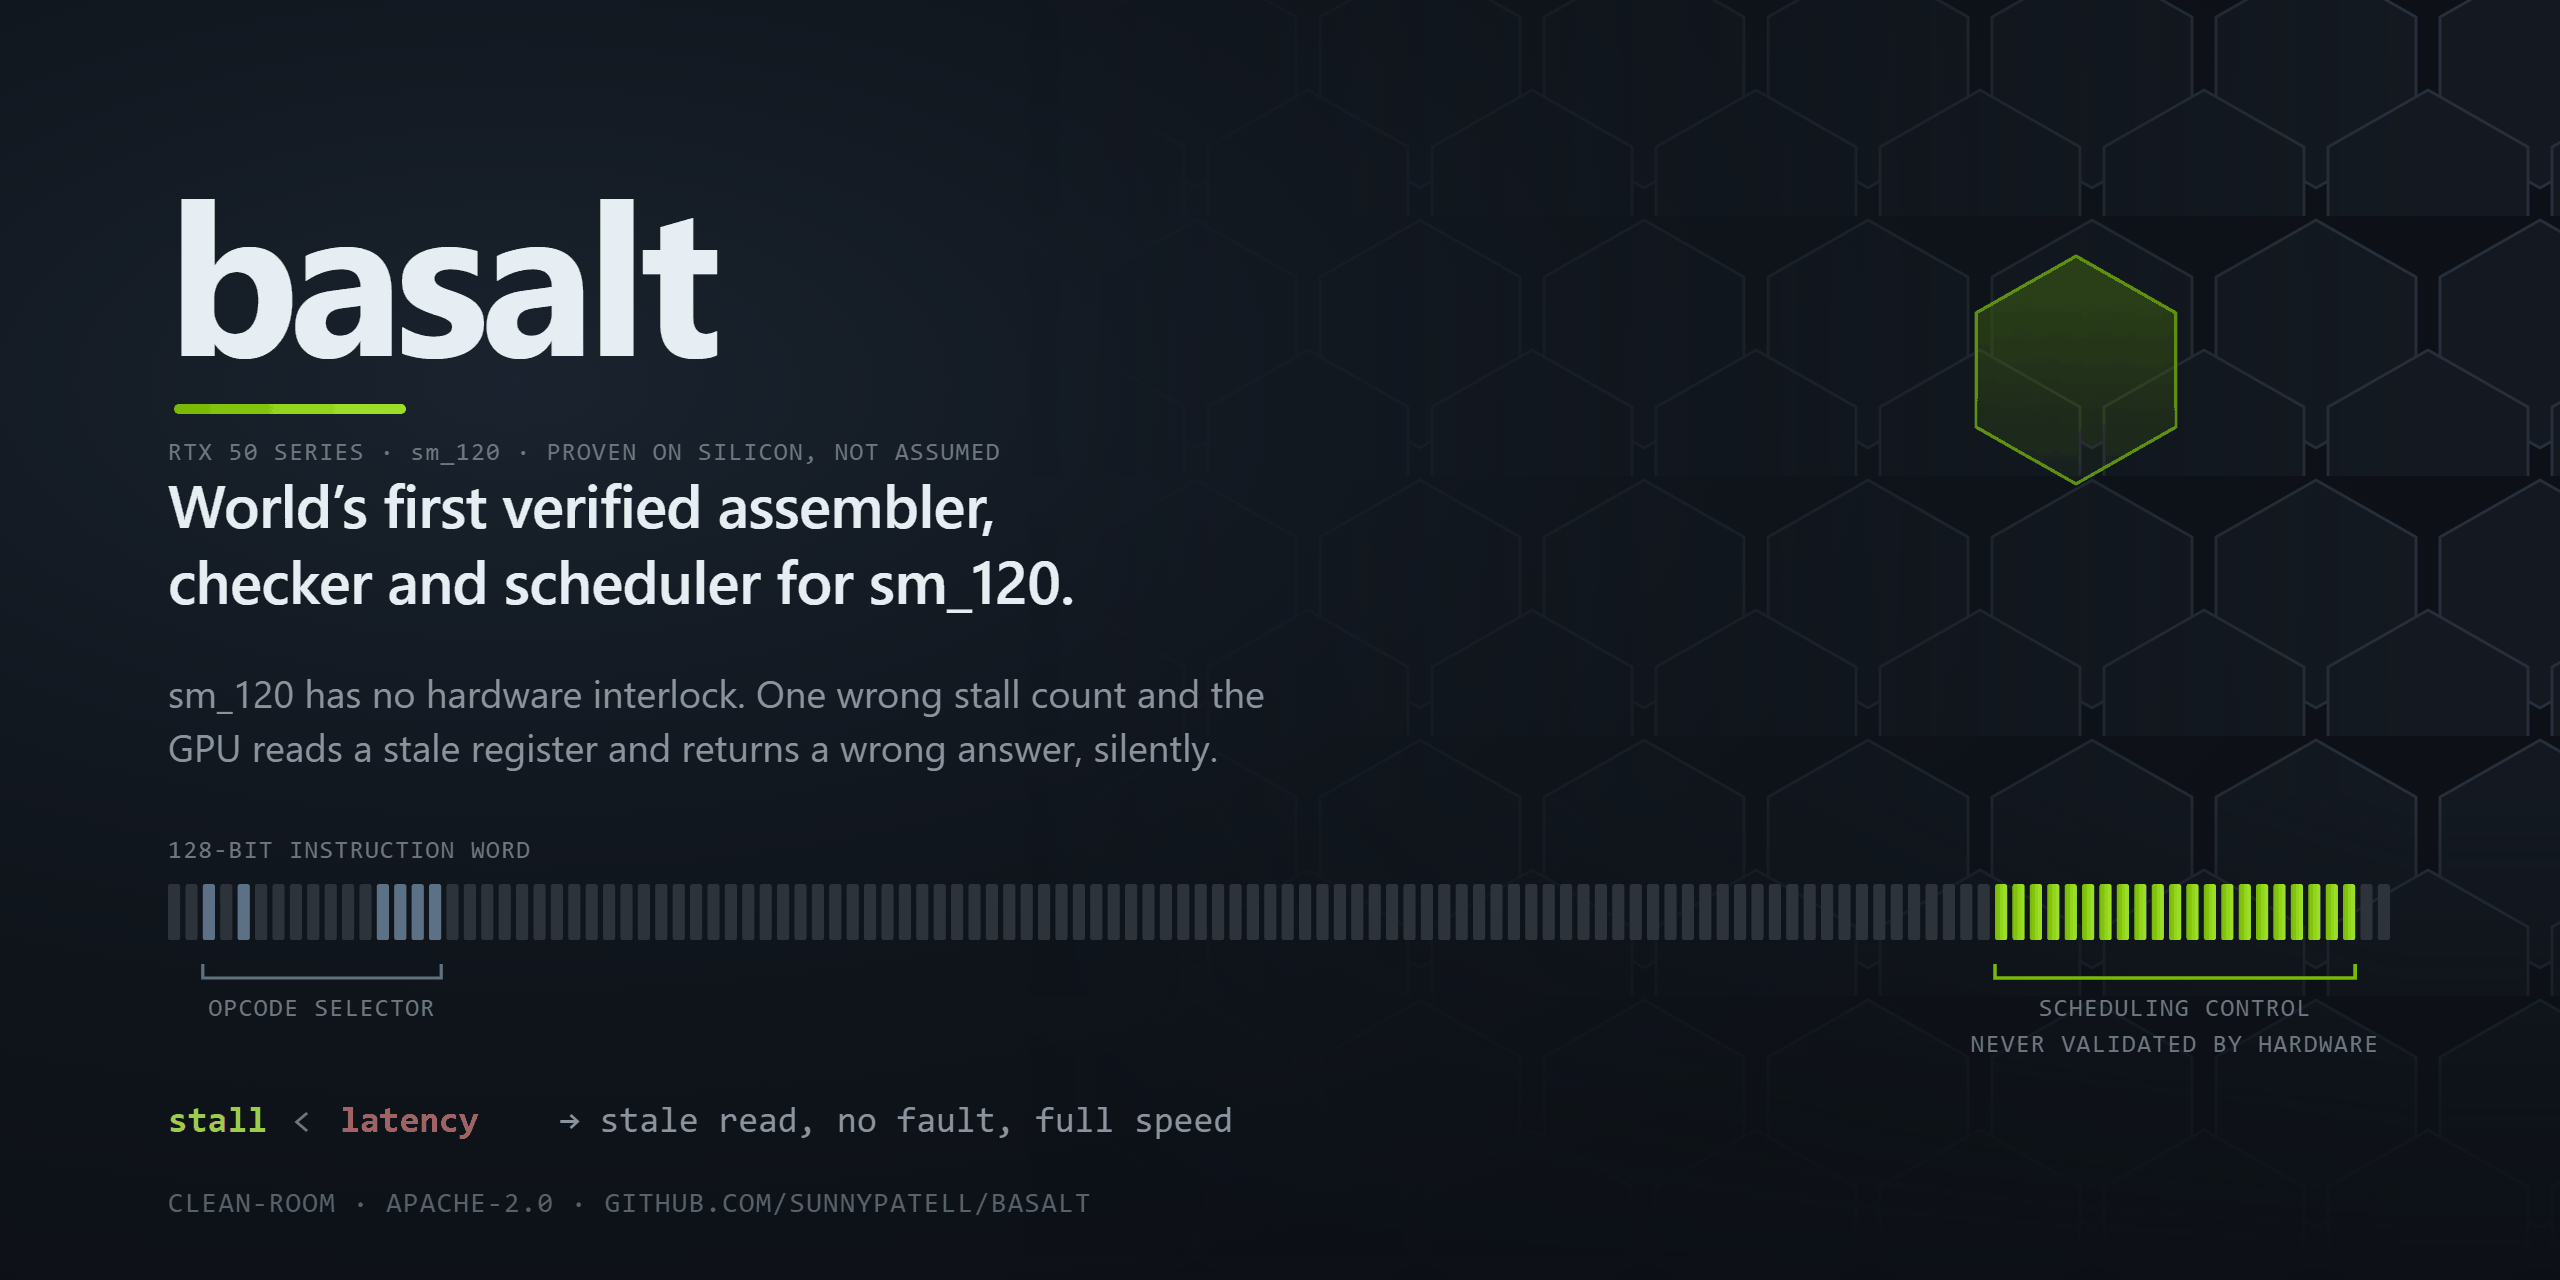
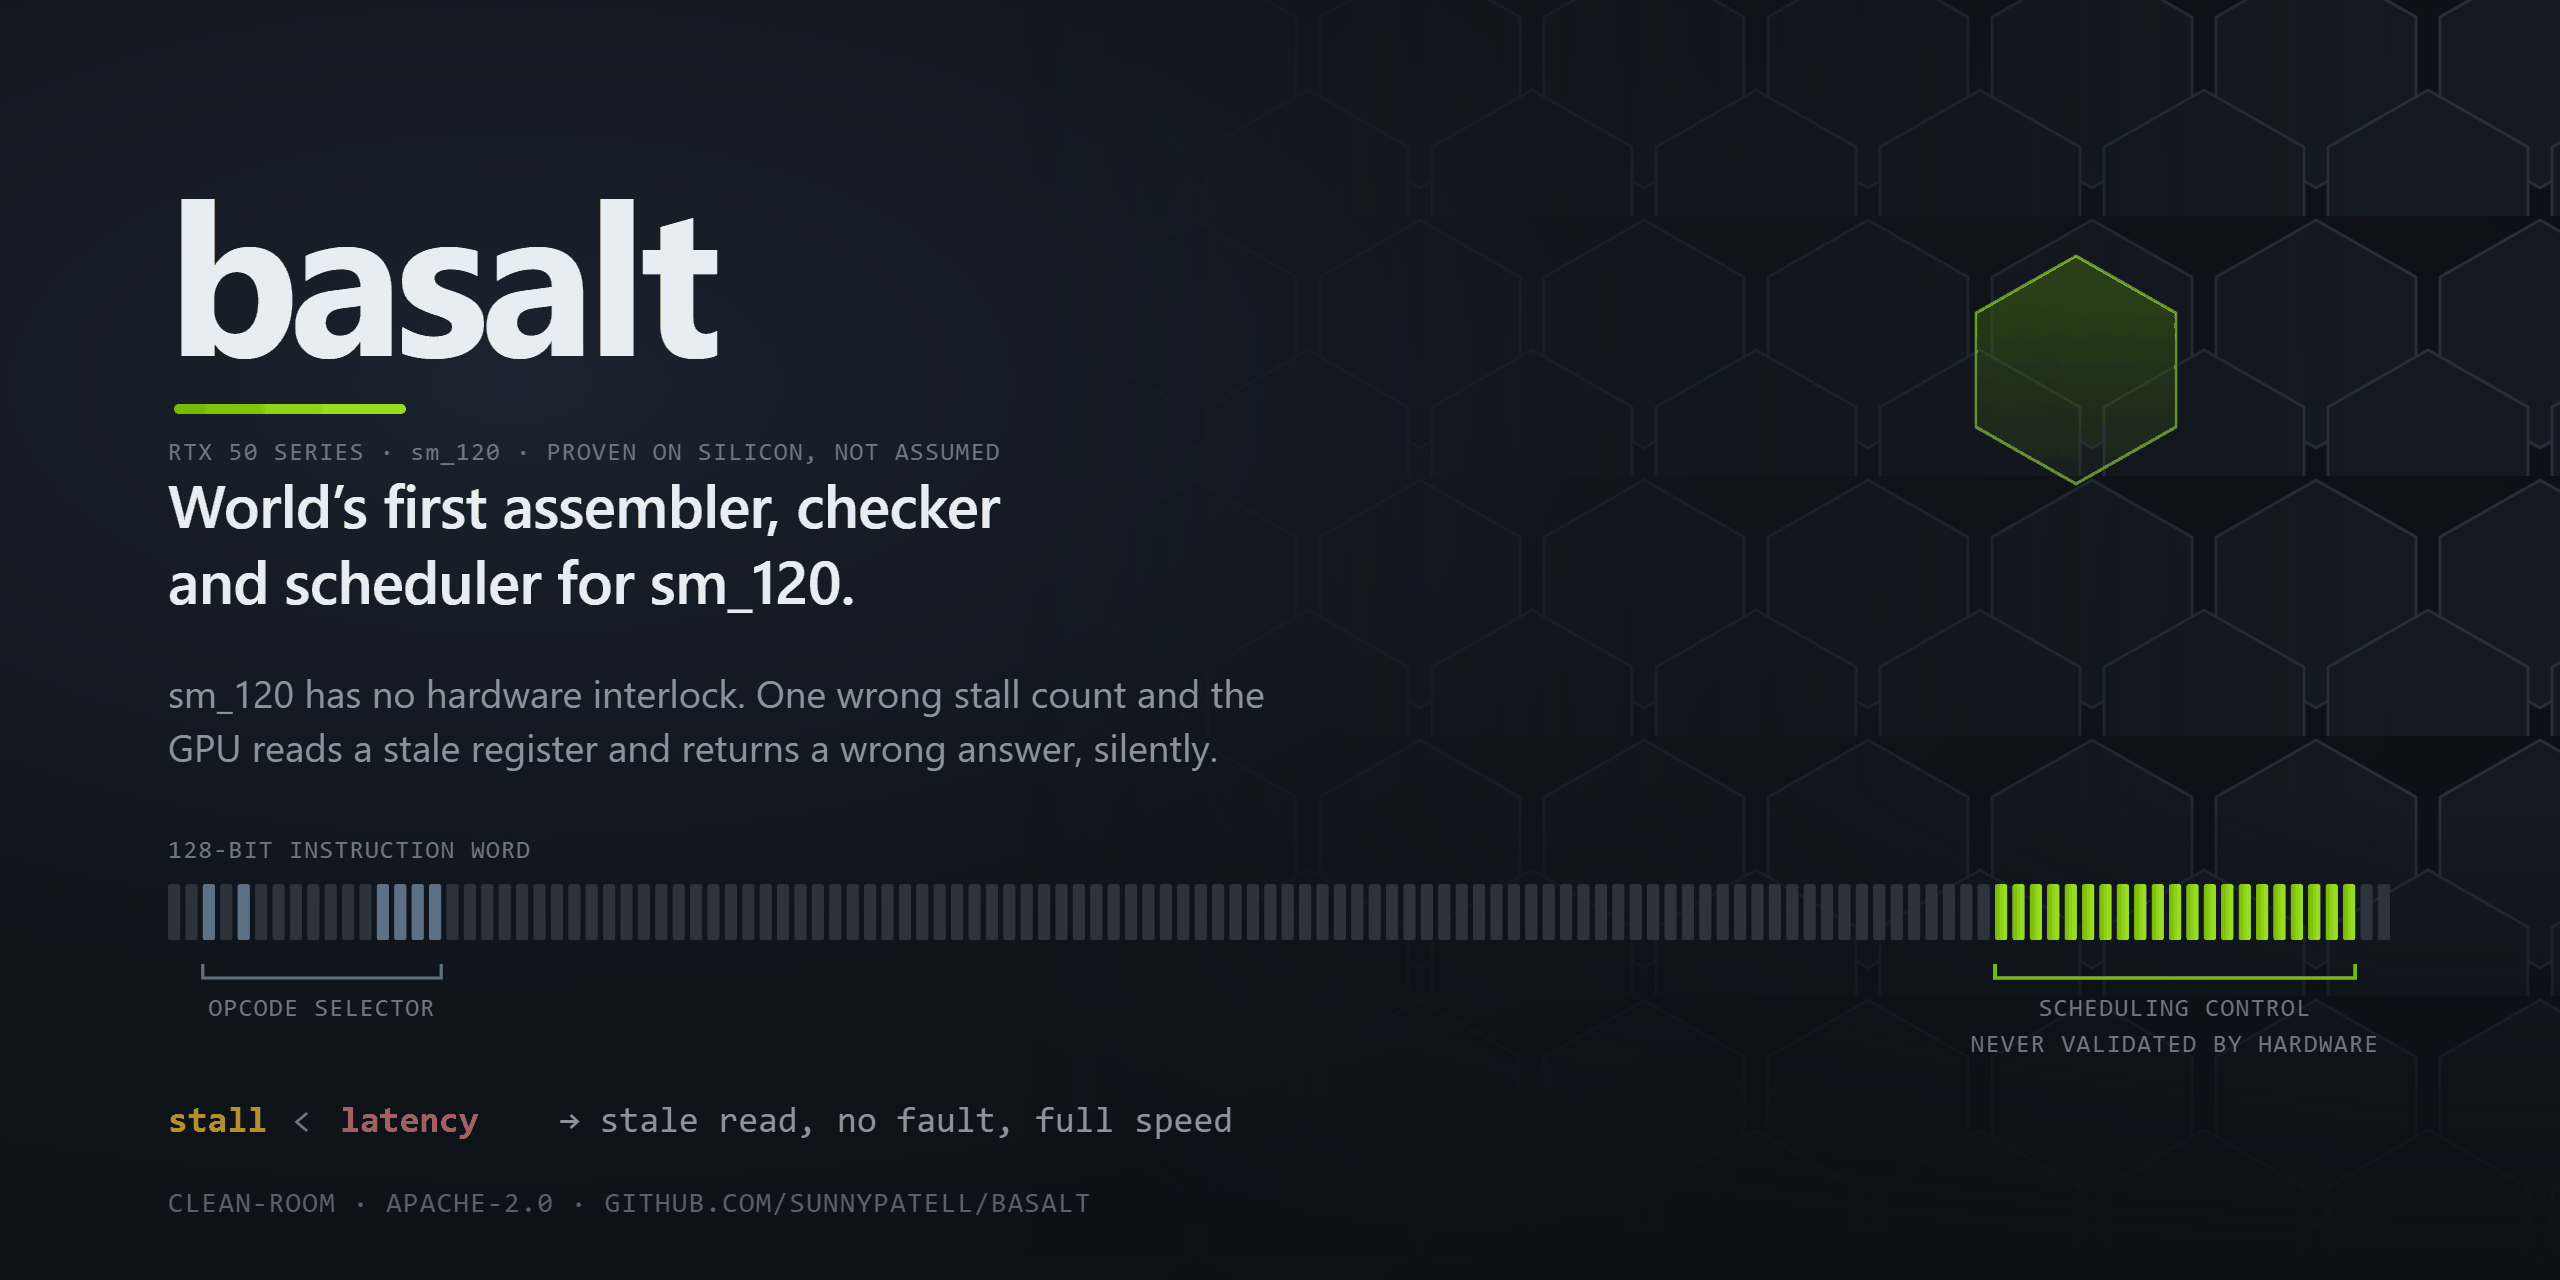
fix(probe): stopped the label sharing a field with the register beside it
- a branch target trails the last operand with a space rather than a
  comma, so `RET.REL.NODEC R12 `(label)` had no comma at all and the
  return register and the target became one field
- that left nothing to write the register with, which refused every
  RET.REL.NODEC in the corpus
- a field the prober called a modifier is writable once a value has been
  split out of it and that value reproduces its own reference, which is
  QMMA's reuse flag sitting beside a register number
- assembler coverage 8,563 to 8,572 of 8,584, refusals 21 to 12, wrong
  still zero, round trip still 314/314 at all three levels

docs: dropped a word the claim did not need

- "verified" was doing the work of the differentiator, and the
  differentiator says itself: agrees with NVIDIA's own compiler, byte
  for byte

Changed region(s): [[0.0625, 0.375, 0.4375, 0.4688], [0.0625, 0.875, 0.0938, 0.9062]]

diff --git a/src/basalt/probe/fields.py b/src/basalt/probe/fields.py
@@ -38,6 +38,19 @@ _REG = re.compile(r"\b(?:UR|R|P|UP|SR_|SB)\w*", re.IGNORECASE)
 _IMM = re.compile(r"\b0x[0-9a-fA-F]+\b")
 # a guard is printed ahead of the first operand rather than beside it
 _GUARD_PREFIX = re.compile(r"^@!?U?P(?:\d+|T)\s+")
+# and a branch target trails the last one, with a space rather than a comma
+_LABEL_SUFFIX = re.compile(r"\s*`\([^)]*\)\s*$")
+
+
+def _strip_edges(text: str) -> str:
+    """Operand text without the guard in front or the branch target behind.
+
+    Both ride on an operand rather than being their own comma-separated part, so
+    leaving them attached puts two things in one field. `RET.REL.NODEC R12
+    `(label)` has no comma at all, which made the return register and the branch
+    target one slot and left nothing to write the register with.
+    """
+    return _LABEL_SUFFIX.sub("", _GUARD_PREFIX.sub("", text, count=1)).strip()
 
 
 class BitRole(StrEnum):
@@ -70,8 +83,8 @@ class BitObservation:
         in one field, so a guarded form's destination bits are recorded as the
         guard's and there is nothing left to write a different destination with.
         """
-        a = [t.strip() for t in _GUARD_PREFIX.sub("", self.before, count=1).split(",")]
-        b = [t.strip() for t in _GUARD_PREFIX.sub("", self.after, count=1).split(",")]
+        a = [t.strip() for t in _strip_edges(self.before).split(",")]
+        b = [t.strip() for t in _strip_edges(self.after).split(",")]
         if len(a) != len(b):
             return None
         moved = [i for i, (x, y) in enumerate(zip(a, b, strict=True)) if x != y]

diff --git a/src/basalt/asm/assemble.py b/src/basalt/asm/assemble.py
@@ -339,7 +339,12 @@ class Assembler:
                 # `PLOP3.LUT`'s predicate slot is a uniform-register flag, a
                 # number and a negate sharing five bits, and taking four of them
                 # for the number turns `P1` into `UP0`.
-                if holds == "value" and token < len(tokens):
+                # A field the prober called a modifier is still writable when a
+                # value was split out of it and that value reproduces its own
+                # reference: `QMMA` slot 5 carries a reuse flag beside a register
+                # number, and the number is encodable once the flag is named.
+                writable = holds == "value" or SubRole.VALUE in parts
+                if writable and holds != "float" and token < len(tokens):
                     value_bits = tuple(sorted(parts.get(SubRole.VALUE, operand.bits)))
                     expected = _token_value(_strip_modifiers(tokens[token])[1])
                     if expected is None or _read(reference, value_bits) != expected:
@@ -347,6 +352,8 @@ class Assembler:
                         parts = {
                             role: bits for role, bits in parts.items() if role in _COMPOSITE_ROLES
                         }
+                    else:
+                        holds = "value"
                 slots.append(
                     Slot(
                         index=operand.slot,

diff --git a/README.md b/README.md
@@ -1,6 +1,6 @@
 <div align="center">
 
-<img src="./docs/assets/social-preview.svg" alt="basalt: the world's first verified assembler, checker and scheduler for NVIDIA Blackwell GPU machine code. sm_120 has no hardware interlock, so one wrong stall count makes the GPU read a stale register and return a wrong answer silently." width="880" />
+<img src="./docs/assets/social-preview.svg" alt="basalt: the world's first assembler, checker and scheduler for NVIDIA Blackwell GPU machine code that agrees with NVIDIA's own compiler, byte for byte. sm_120 has no hardware interlock, so one wrong stall count makes the GPU read a stale register and return a wrong answer silently." width="880" />
 
 <br/>
 
@@ -29,9 +29,9 @@ That is a strange kind of bug. It does not crash. It does not appear in a debugg
 
 Tools that generate machine code for this architecture *assign* those control bits from a latency model. basalt is the thing that checks the answer.
 
-## World's first verified assembler, checker and scheduler
+## World's first that agrees with the vendor, byte for byte
 
-Three tools for `sm_120`, and the word that matters is **verified**.
+Three tools for `sm_120`, and one standard between them.
 
 Assemblers for NVIDIA GPUs have existed for a decade, the Blackwell encoding has been
 reverse engineered before, there are published cycle-level characterisations of `sm_120`,
@@ -57,7 +57,7 @@ One standard, three tools: **agree with the vendor exactly, or say why not.**
 
 | | What it does | How it is checked | Result |
 | :--- | :--- | :--- | ---: |
-| **Assembler** | SASS text to the 128-bit word | Reassemble every instruction `ptxas` emitted and compare bytes | 8,563 of 8,584 exact, **0 wrong** |
+| **Assembler** | SASS text to the 128-bit word | Reassemble every instruction `ptxas` emitted and compare bytes | 8,572 of 8,584 exact, **0 wrong** |
 | **Checker** | Reads a schedule, reports hazards | The vendor's own output must verify clean, and a deliberately shortened stall must be caught | 0 errors on 330 vendor kernels, **0 missed** on 162 broken ones |
 | **Scheduler** | Assigns the control bits from scratch | Discard every control bit, compute new ones, run both on the GPU against four inputs, compare output bytes | **314 of 314** byte-identical, at every optimisation level |
 

diff --git a/CHANGELOG.md b/CHANGELOG.md
@@ -13,7 +13,7 @@ any release. The clean-room position in [`NOTICE`](NOTICE) will not.
 - Assembler: SASS text to the 128-bit instruction word, whole cubins as well as
   single instructions, and a `basalt assemble` command that can read its own
   output back through `nvdisasm` to prove it. Assembling every corpus kernel as
-  a program with its labels resolved reproduces 8,563 of 8,584 instructions
+  a program with its labels resolved reproduces 8,572 of 8,584 instructions
   bit-identically and none to anything else; the second count is a test pinned
   at zero.
 - `scripts/assembler_coverage.py`: the command that produces the number above.

diff --git a/docs/ROADMAP.md b/docs/ROADMAP.md
@@ -56,7 +56,7 @@ treated the surrounding gaps as free to compress.
 
 The assembler encodes SASS text back into the instruction word, and its standard is the
 vendor's own bytes: assembling every corpus kernel as a whole program, with its labels
-resolved, reproduces 8,563 of 8,584 instructions bit-identically and none to anything else.
+resolved, reproduces 8,572 of 8,584 instructions bit-identically and none to anything else.
 That second number is a test pinned at zero.
 
 Whole programs rather than lone instructions because a branch cannot be assembled alone.

diff --git a/docs/FINDINGS.md b/docs/FINDINGS.md
@@ -525,7 +525,7 @@ label under this rule and none decodes wrongly.
 The rule is a measurement, and a measurement written down as a constant is exactly what goes
 quietly wrong when a compiler version changes, so it is re-derived from the corpus by a test
 rather than trusted. With it, assembling every corpus kernel as a whole program reproduces
-8,563 of 8,584 instructions bit-identically, and none to anything else.
+8,572 of 8,584 instructions bit-identically, and none to anything else.
 
 ## 12. What the correctness costs
 
